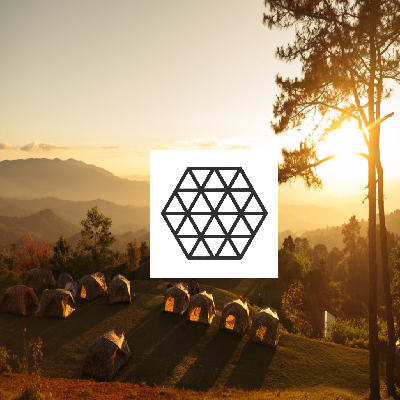
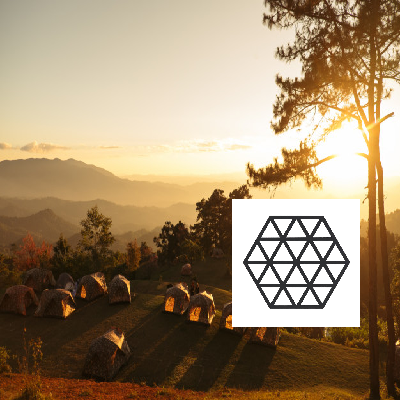
Remove src directory 'cause of the pythonic-way and implement PaddingRules in pasting.

Changed region(s): [[0.36, 0.36, 0.9, 0.84]]

diff --git a/datasetutils/datasets.py b/datasetutils/datasets.py
@@ -2,18 +2,20 @@ from PIL.Image import Image
 from PIL import Image as ImageFactory
 
 from random import randint
-from typing import List
+from typing import List, Optional
 
 from os import walk
 from os.path import join, exists
 
 from logging import Logger
 
-from mutations import MutationProcessor
+from datasetutils.pasting import PastingRule
+from datasetutils.mutations import MutationProcessor
+
 
 class MixInDataset(object):
 
-    def __init__(self, root: str, mixing : str, to_mix_with : str, logger : Logger = None):
+    def __init__(self, root: str, mixing : str, to_mix_with : str, logger : Optional[Logger] = None):
 
         if not all([root, mixing, to_mix_with]):
             raise ValueError(f"Some of the arguments were set to null or empty (root, mixing, to_mix_with):{(root, mixing, to_mix_with)}. They all should be filled!")
@@ -35,6 +37,8 @@ class MixInDataset(object):
         self.__logger : Logger = logger
         self.__mixing_mutations : List[MutationProcessor] = list()
         self.__to_mix_with_mutations : List[MutationProcessor] = list()
+
+        self.__pasting_rule : PastingRule 
 
         for path, _, files in walk(root):
             if path == mixing_path:
@@ -66,11 +70,14 @@ class MixInDataset(object):
                 for mut in self.__mixing_mutations:
                     mixing_copied_image = mut.mutate(mixing_copied_image)
 
-                mixing_copied_image.paste(to_mix_with_copied_image, (150, 150))
+                mixing_copied_image.paste(to_mix_with_copied_image, self.__pasting_rule.rule)
                 mixed.append(mixing_copied_image)
         
         return mixed
 
+    def paste_as(self, pasting_rule : PastingRule) -> 'MixingDataset':
+        self.__pasting_rule = pasting_rule
+        return self
 
     def add_mutation_mixing(self, mutation_processor : MutationProcessor) -> 'MixInDataset':
         self.__mixing_mutations.append(mutation_processor)
@@ -85,26 +92,3 @@ class MixInDataset(object):
             Mixing [{len(self.__mixing)}] : {[f.filename.split('/')[-1:] for f in self.__mixing[:1]]} ... {[f.filename.split('/')[-1:] for f in self.__mixing[-1:]]}
             To mix with [{len(self.__to_mix_with)}] : {[f.filename.split('/')[-1:] for f in self.__to_mix_with[:1]]} ... {[f.filename.split('/')[-1:] for f in self.__to_mix_with[-1:]]}
         '''
-    
-if __name__ == "__main__":
-    from sys import stdout
-    from logging import StreamHandler, getLogger, DEBUG
-
-    from mutations import ResizeMutation
-    
-    # logging routine, don't mind
-    handler = StreamHandler(stdout)
-    rootLogger = getLogger()
-    rootLogger.addHandler(handler)
-    rootLogger.setLevel(DEBUG)
-    # ---------------------------
-
-    dataset = MixInDataset('dummy-data', 'landscapes', 'figures', rootLogger)
-    print(dataset)
-
-    dataset \
-        .add_mutation_to_mix_with(ResizeMutation((128, 128))) \
-        .add_mutation_mixing(ResizeMutation((400, 400)))
-
-    for idx, img in enumerate(dataset.mix(4,1)):
-        img.save(f'output/{idx}.png', format='png')

diff --git a/simple.py b/simple.py
@@ -1,20 +1,20 @@
-# dataset-utils
-
-A simple util to make your dataset flexable.
-
-# Requirements
-- Python >3.6
-- pillow 6.1.0
-
-# How to
-
-```python
+if __name__ == "__main__":
+    from sys import stdout
+    from logging import StreamHandler, getLogger, DEBUG
 
     from datasetutils.datasets import MixInDataset
     from datasetutils.mutations import ResizeMutation
     from datasetutils.pasting import LeftCornerPaddingRule, RandomPaddingRule
+    
+    # logging routine, don't mind
+    handler = StreamHandler(stdout)
+    rootLogger = getLogger()
+    rootLogger.addHandler(handler)
+    rootLogger.setLevel(DEBUG)
+    # ---------------------------
 
     dataset = MixInDataset('dummy-data', 'landscapes', 'figures', rootLogger)
+    print(dataset)
 
     dataset \
         .add_mutation_to_mix_with(ResizeMutation((128, 128))) \
@@ -23,9 +23,4 @@ A simple util to make your dataset flexable.
 
     for idx, img in enumerate(dataset.mix(4,1)):
         img.save(f'output/{idx}.png', format='png')
-
-```
-
-will yield to result in the `output` directory:
-
-![output.png](output/0.png)
+        # img.show('s')

diff --git a/datasetutils/pasting.py b/datasetutils/pasting.py
@@ -1,0 +1,31 @@
+from PIL.Image import Image
+
+from abc import ABC, abstractproperty
+from typing import Tuple, Union, Optional
+
+from random import randint
+
+class PastingRule(ABC):
+    @abstractproperty
+    def rule(self) -> Union[Tuple[int, int], Tuple[int, int, int, int]]:
+        pass
+    
+class LeftCornerPaddingRule(PastingRule):
+    def __init__(self, left_corner = Tuple[int, int]):
+        self.__rule = left_corner
+    
+    @property
+    def rule(self) -> Tuple[int, int, int, int]:
+        return self.__rule
+
+class RandomPaddingRule(PastingRule):
+    def __init__(self, limit : Optional[int] = 20):
+        self.__limit = limit
+
+    @property
+    def rule(self) -> Tuple[int, int, int, int]:
+        return (randint(0, self.__limit), randint(0,self.__limit))
+        
+if __name__ == "__main__":
+    lrule : PastingRule = LeftCornerPaddingRule((10, 10))
+    print(lrule.rule)
